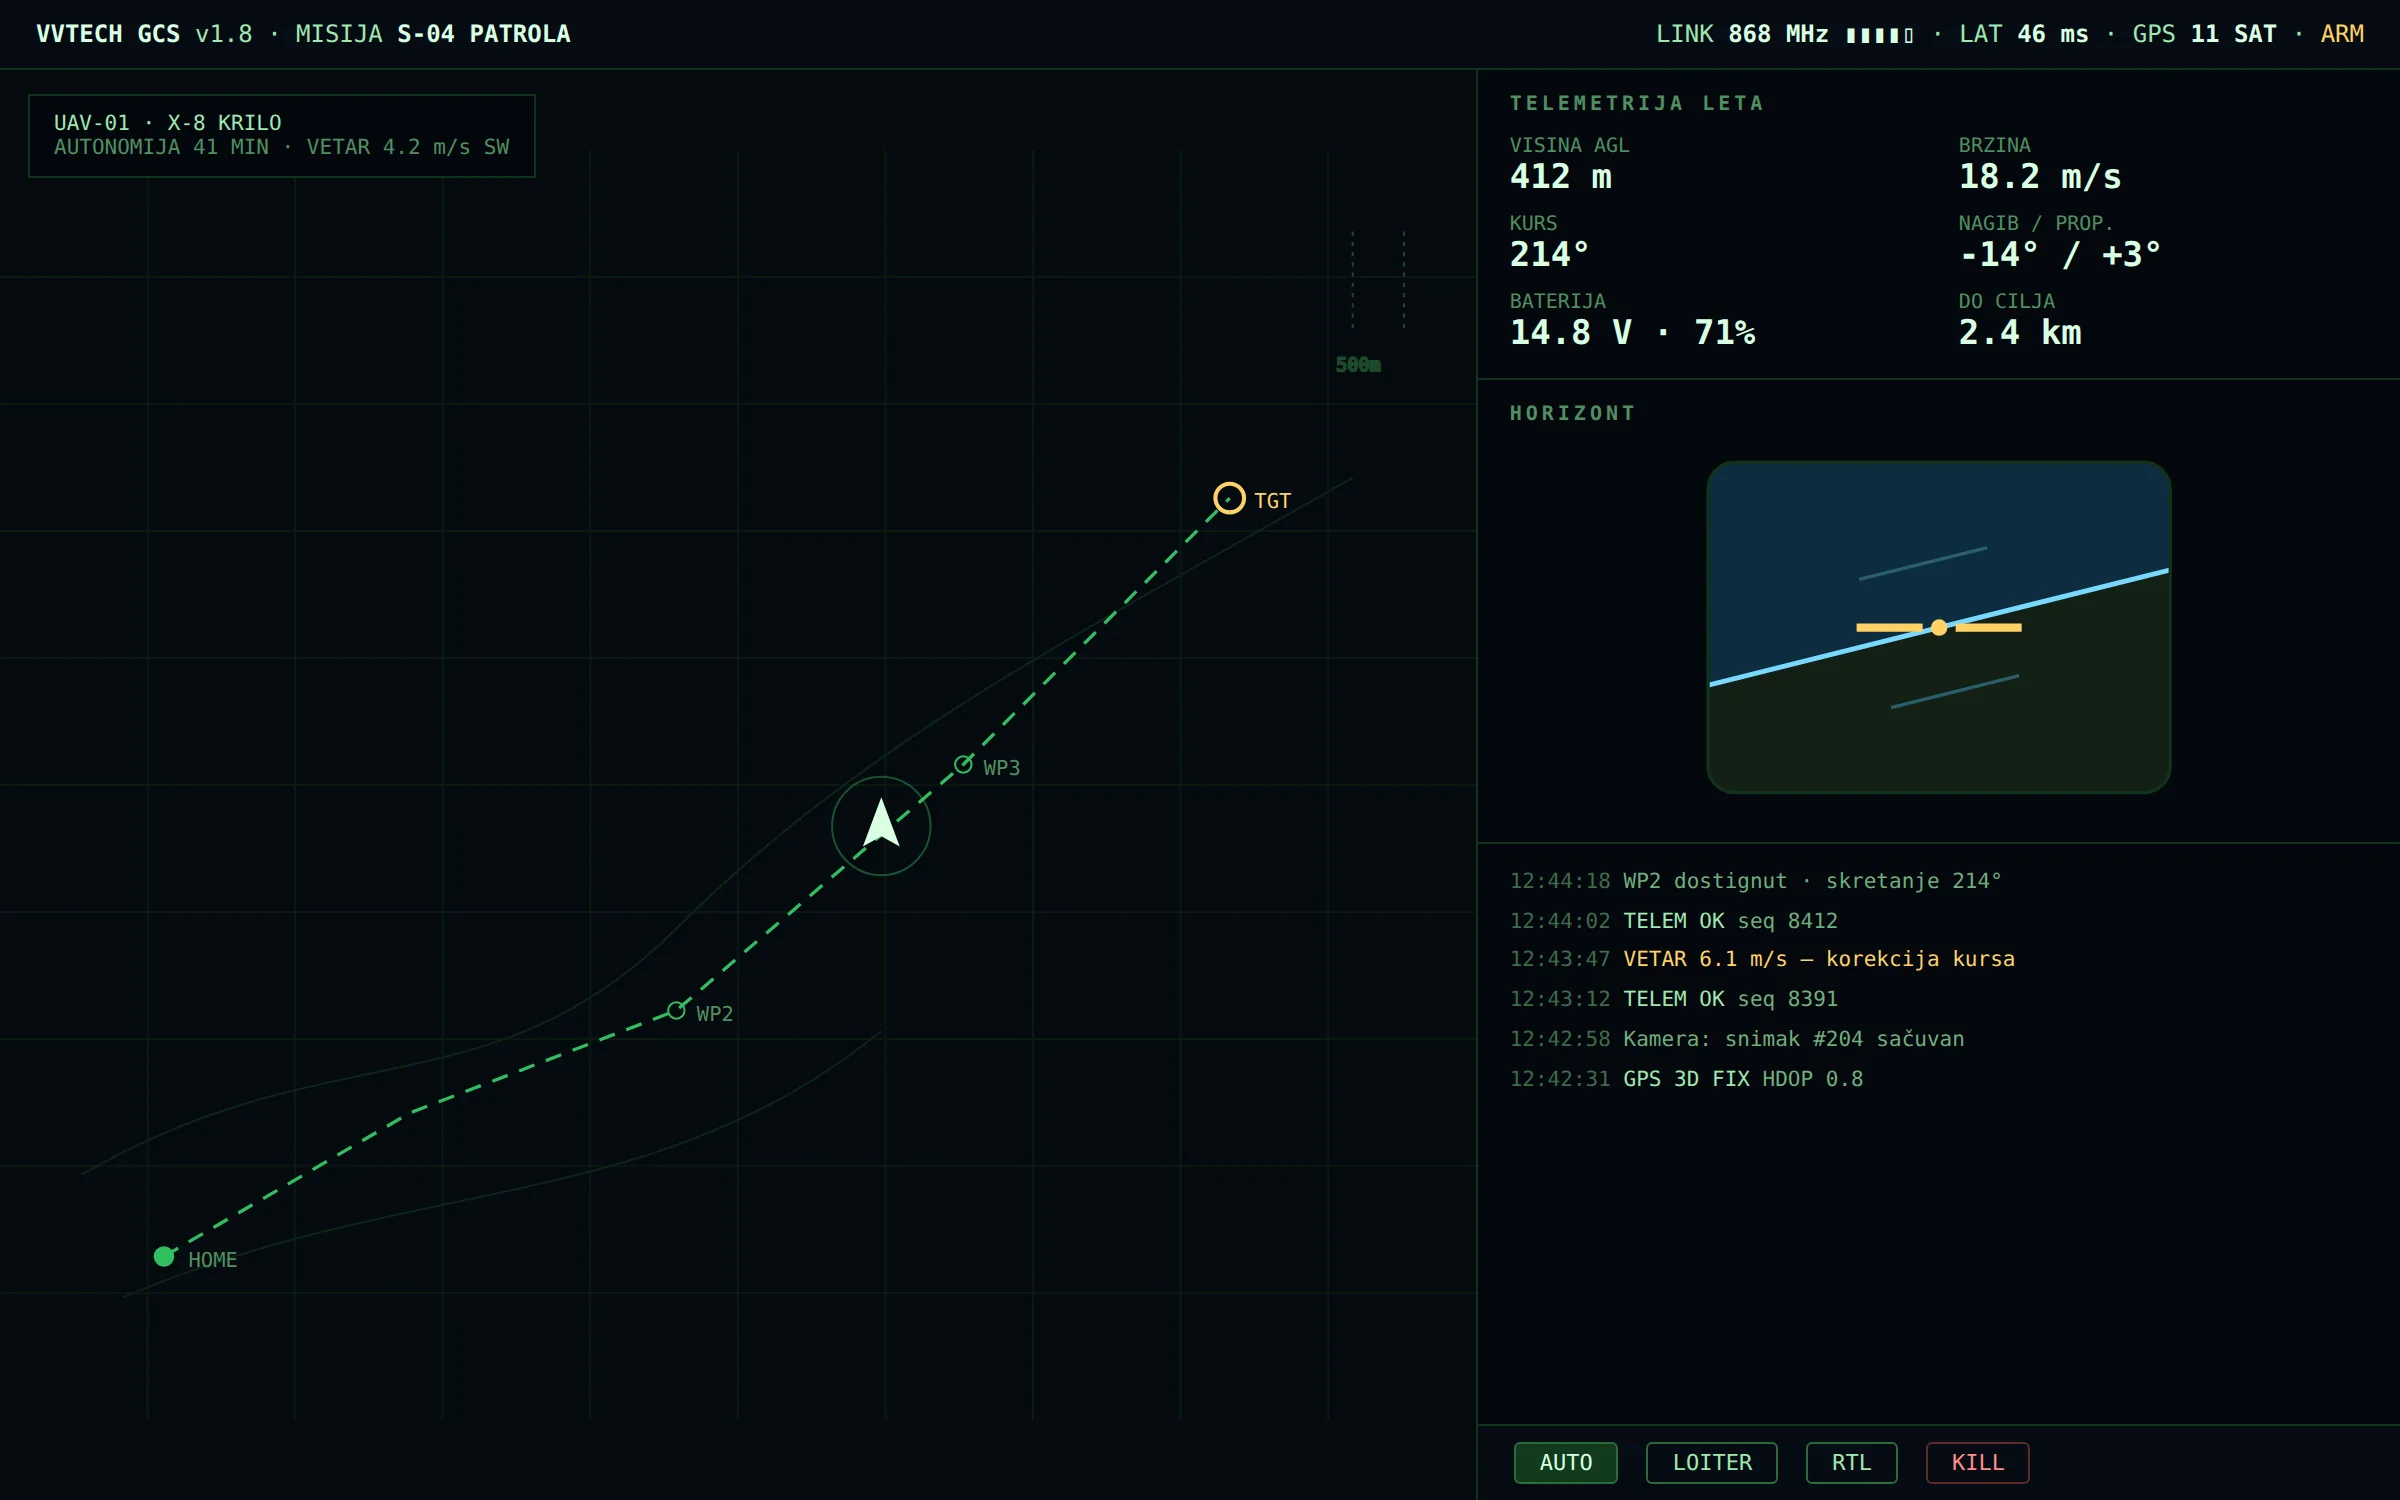
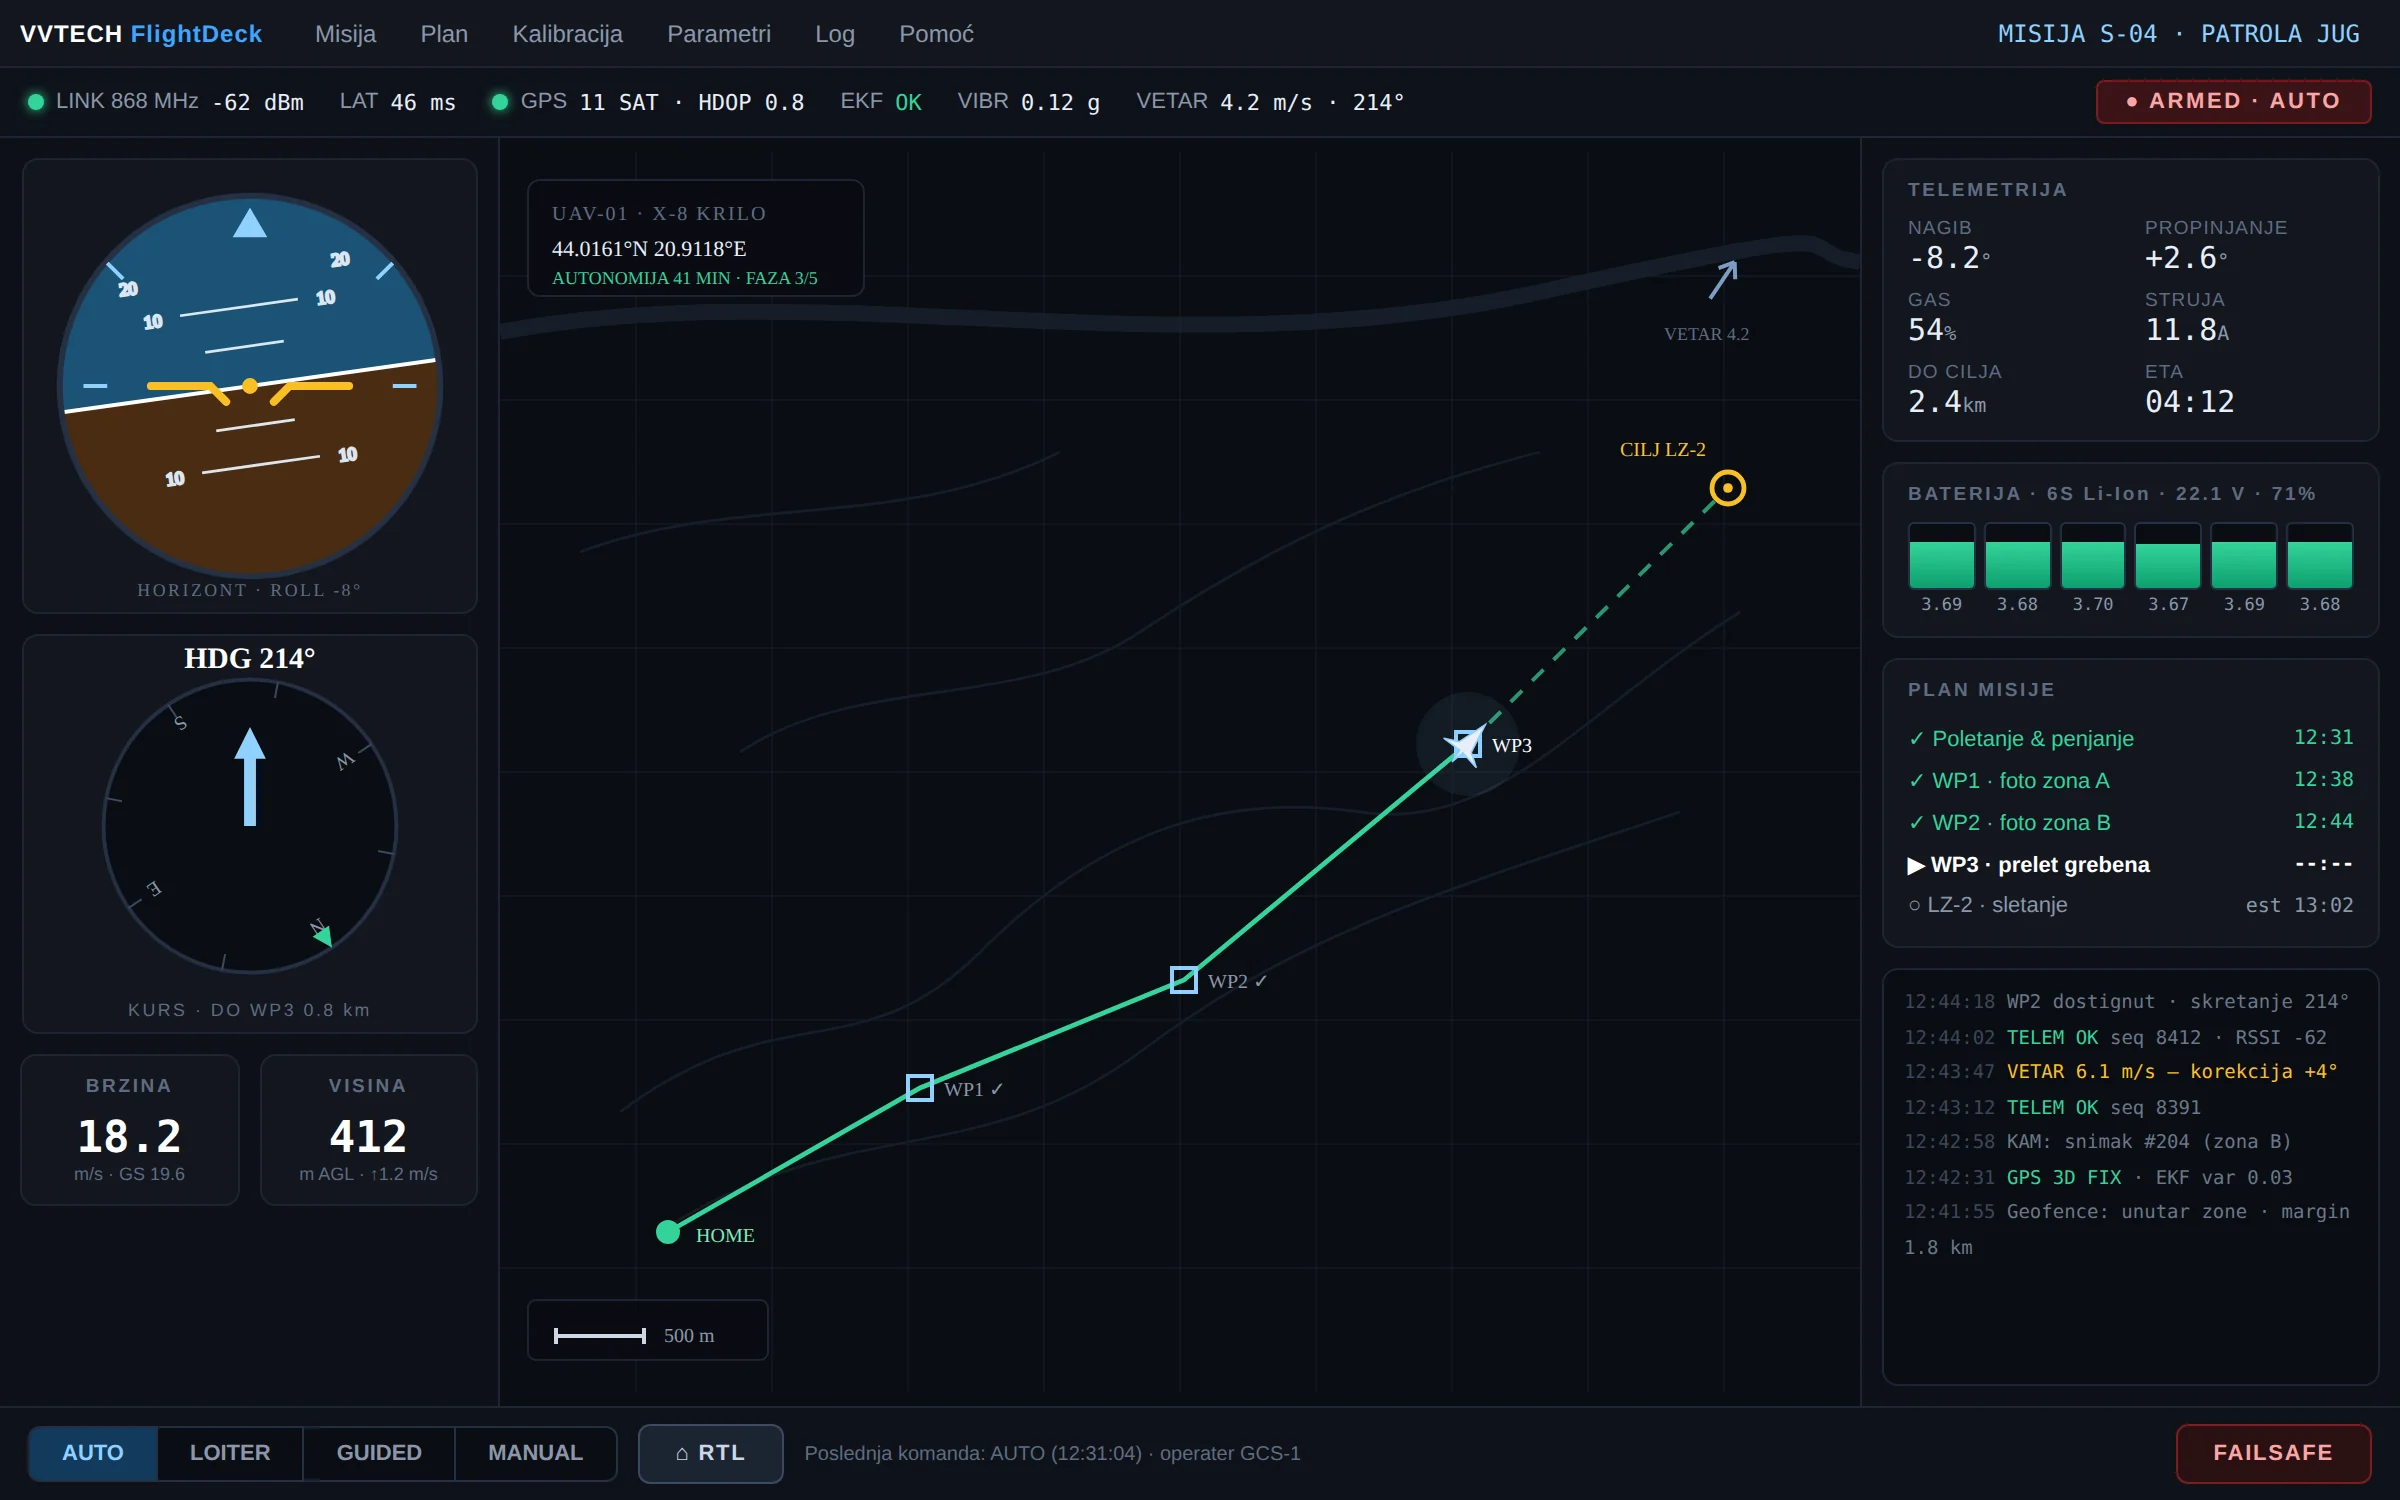
Profesionalni GNC FlightDeck + PGT sa realnim radnim pritiskom 18-20 bar
- GNC: kompletna zemaljska stanica 'VVTECH FlightDeck' — vestacki
  horizont sa pitch lestvicama, HSI kompas, brzina/visina, baterija
  po celijama (6S), plan misije sa checkmarkovima, konzolni log,
  AUTO/LOITER/GUIDED/MANUAL rezimi, ARMED status, mapa sa izohipsama,
  vetrom i geofence porukama
- PGT ekrani ponovo slikani: pun kadar kartica (bez presecenog
  skrola), pritisak gasa prikazan realno 19.4 / 18.7 bar (radni
  pritisak 18-20 bar) umesto nerealnih dummy vrednosti
- Kes-bust slika v=3

Claude-Session: https://claude.ai/code/session_01B3fvisijghmcPmp58SkH7r

diff --git a/en/projects/index.html b/en/projects/index.html
@@ -92,7 +92,7 @@
           <ul class="tags"><li>SCADA</li><li>OEE</li><li>Alarms</li><li>Three shifts</li></ul>
         </div>
         <figure class="case-media">
-          <img src="../../assets/projects/linija.webp?v=2" alt="Surface-treatment line automation — ekran aplikacije" loading="lazy">
+          <img src="../../assets/projects/linija.webp?v=3" alt="Surface-treatment line automation — ekran aplikacije" loading="lazy">
         </figure>
       </div>
       <div class="grid grid-2">
@@ -132,7 +132,7 @@
           <ul class="tags"><li>Raspberry Pi</li><li>GSM/SMS</li><li>Solar</li><li>OTA</li><li>GPS</li></ul>
         </div>
         <figure class="case-media">
-          <img src="../../assets/projects/nadzor.webp?v=2" alt="PGT-A80 — remote monitoring of anti-hail cannons — ekran aplikacije" loading="lazy">
+          <img src="../../assets/projects/nadzor.webp?v=3" alt="PGT-A80 — remote monitoring of anti-hail cannons — ekran aplikacije" loading="lazy">
         </figure>
       </div>
       <div class="grid grid-2">
@@ -166,7 +166,7 @@
           <ul class="tags"><li>Ground station</li><li>Telemetry</li><li>Flight analysis</li></ul>
         </div>
         <figure class="case-media">
-          <img src="../../assets/projects/gnc.webp?v=2" alt="Ground station and flight telemetry — ekran aplikacije" loading="lazy">
+          <img src="../../assets/projects/gnc.webp?v=3" alt="Ground station and flight telemetry — ekran aplikacije" loading="lazy">
         </figure>
       </div>
       <div class="grid grid-2">
@@ -200,7 +200,7 @@
           <ul class="tags"><li>XZ platform</li><li>LVGL HMI</li><li>Raster programs</li><li>E-stop</li></ul>
         </div>
         <figure class="case-media">
-          <img src="../../assets/projects/hmi.webp?v=2" alt="Sandblaster SB-2000 — XZ blasting platform — ekran aplikacije" loading="lazy">
+          <img src="../../assets/projects/hmi.webp?v=3" alt="Sandblaster SB-2000 — XZ blasting platform — ekran aplikacije" loading="lazy">
         </figure>
       </div>
       <div class="grid grid-2">
@@ -233,7 +233,7 @@
           <ul class="tags"><li>Work orders</li><li>Warehouse</li><li>Deadlines</li></ul>
         </div>
         <figure class="case-media">
-          <img src="../../assets/projects/erp.webp?v=2" alt="ERP for manufacturing and work orders — ekran aplikacije" loading="lazy">
+          <img src="../../assets/projects/erp.webp?v=3" alt="ERP for manufacturing and work orders — ekran aplikacije" loading="lazy">
         </figure>
       </div>
       <div class="grid grid-2">
@@ -269,7 +269,7 @@
           <ul class="tags"><li>Node.js</li><li>WebSocket</li><li>Roles</li><li>Alarms</li></ul>
         </div>
         <figure class="case-media">
-          <img src="../../assets/projects/flota.webp?v=2" alt="Cloud platform for fleet monitoring — ekran aplikacije" loading="lazy">
+          <img src="../../assets/projects/flota.webp?v=3" alt="Cloud platform for fleet monitoring — ekran aplikacije" loading="lazy">
         </figure>
       </div>
       <div class="case reveal">
@@ -279,7 +279,7 @@
           <ul class="tags"><li>Android</li><li>Push (FCM)</li><li>Remote commands</li></ul>
         </div>
         <figure class="case-media phone">
-          <img src="../../assets/projects/app.webp?v=2" alt="Android app for on-duty operators — ekran aplikacije" loading="lazy">
+          <img src="../../assets/projects/app.webp?v=3" alt="Android app for on-duty operators — ekran aplikacije" loading="lazy">
         </figure>
       </div>
     </div>
@@ -309,7 +309,7 @@
           <ul class="tags"><li>Prediction</li><li>Telemetry</li><li>Remaining resource</li></ul>
         </div>
         <figure class="case-media">
-          <img src="../../assets/projects/ai.webp?v=2" alt="Gas-consumption prediction from telemetry — ekran aplikacije" loading="lazy">
+          <img src="../../assets/projects/ai.webp?v=3" alt="Gas-consumption prediction from telemetry — ekran aplikacije" loading="lazy">
         </figure>
       </div>
       <div class="grid grid-2">

diff --git a/projekti/index.html b/projekti/index.html
@@ -92,7 +92,7 @@
           <ul class="tags"><li>SCADA</li><li>OEE</li><li>Alarmi</li><li>Tri smene</li></ul>
         </div>
         <figure class="case-media">
-          <img src="../assets/projects/linija.webp?v=2" alt="Automatizacija linije za tretman površina — ekran aplikacije" loading="lazy">
+          <img src="../assets/projects/linija.webp?v=3" alt="Automatizacija linije za tretman površina — ekran aplikacije" loading="lazy">
         </figure>
       </div>
       <div class="grid grid-2">
@@ -132,7 +132,7 @@
           <ul class="tags"><li>Raspberry Pi</li><li>GSM/SMS</li><li>Solarno</li><li>OTA</li><li>GPS</li></ul>
         </div>
         <figure class="case-media">
-          <img src="../assets/projects/nadzor.webp?v=2" alt="PGT-A80 — daljinski nadzor protivgradnih topova — ekran aplikacije" loading="lazy">
+          <img src="../assets/projects/nadzor.webp?v=3" alt="PGT-A80 — daljinski nadzor protivgradnih topova — ekran aplikacije" loading="lazy">
         </figure>
       </div>
       <div class="grid grid-2">
@@ -166,7 +166,7 @@
           <ul class="tags"><li>Zemaljska stanica</li><li>Telemetrija</li><li>Analiza leta</li></ul>
         </div>
         <figure class="case-media">
-          <img src="../assets/projects/gnc.webp?v=2" alt="Zemaljska stanica i telemetrija leta — ekran aplikacije" loading="lazy">
+          <img src="../assets/projects/gnc.webp?v=3" alt="Zemaljska stanica i telemetrija leta — ekran aplikacije" loading="lazy">
         </figure>
       </div>
       <div class="grid grid-2">
@@ -200,7 +200,7 @@
           <ul class="tags"><li>XZ platforma</li><li>LVGL HMI</li><li>Raster programi</li><li>E-stop</li></ul>
         </div>
         <figure class="case-media">
-          <img src="../assets/projects/hmi.webp?v=2" alt="Sandblaster SB-2000 — XZ platforma za peskarenje — ekran aplikacije" loading="lazy">
+          <img src="../assets/projects/hmi.webp?v=3" alt="Sandblaster SB-2000 — XZ platforma za peskarenje — ekran aplikacije" loading="lazy">
         </figure>
       </div>
       <div class="grid grid-2">
@@ -233,7 +233,7 @@
           <ul class="tags"><li>Radni nalozi</li><li>Magacin</li><li>Rokovi</li></ul>
         </div>
         <figure class="case-media">
-          <img src="../assets/projects/erp.webp?v=2" alt="ERP za proizvodnju i radne naloge — ekran aplikacije" loading="lazy">
+          <img src="../assets/projects/erp.webp?v=3" alt="ERP za proizvodnju i radne naloge — ekran aplikacije" loading="lazy">
         </figure>
       </div>
       <div class="grid grid-2">
@@ -269,7 +269,7 @@
           <ul class="tags"><li>Node.js</li><li>WebSocket</li><li>Uloge</li><li>Alarmi</li></ul>
         </div>
         <figure class="case-media">
-          <img src="../assets/projects/flota.webp?v=2" alt="Cloud platforma za nadzor flote — ekran aplikacije" loading="lazy">
+          <img src="../assets/projects/flota.webp?v=3" alt="Cloud platforma za nadzor flote — ekran aplikacije" loading="lazy">
         </figure>
       </div>
       <div class="case reveal">
@@ -279,7 +279,7 @@
           <ul class="tags"><li>Android</li><li>Push (FCM)</li><li>Komande na daljinu</li></ul>
         </div>
         <figure class="case-media phone">
-          <img src="../assets/projects/app.webp?v=2" alt="Android aplikacija za dežurne operatere — ekran aplikacije" loading="lazy">
+          <img src="../assets/projects/app.webp?v=3" alt="Android aplikacija za dežurne operatere — ekran aplikacije" loading="lazy">
         </figure>
       </div>
     </div>
@@ -309,7 +309,7 @@
           <ul class="tags"><li>Predikcija</li><li>Telemetrija</li><li>Preostali resurs</li></ul>
         </div>
         <figure class="case-media">
-          <img src="../assets/projects/ai.webp?v=2" alt="Predikcija potrošnje gasa iz telemetrije — ekran aplikacije" loading="lazy">
+          <img src="../assets/projects/ai.webp?v=3" alt="Predikcija potrošnje gasa iz telemetrije — ekran aplikacije" loading="lazy">
         </figure>
       </div>
       <div class="grid grid-2">

diff --git a/en/index.html b/en/index.html
@@ -155,7 +155,7 @@
       <p class="section-sub reveal d-1">An example of a solution we developed from scratch — hardware, firmware and software.</p>
       <div class="grid grid-3">
         <article class="card project reveal">
-          <img class="project-shot" src="../assets/projects/nadzor.webp?v=2" alt="PGT-A80 — remote monitoring of anti-hail cannons — ekran aplikacije" loading="lazy">
+          <img class="project-shot" src="../assets/projects/nadzor.webp?v=3" alt="PGT-A80 — remote monitoring of anti-hail cannons — ekran aplikacije" loading="lazy">
           <h3>PGT-A80 — remote monitoring of anti-hail cannons</h3>
           <p>Devices scattered across hills with no mains power or internet — yet the on-duty operator sees gas pressure, battery voltage, GPS position and status of every device at any moment. Solar power, GSM/SMS telemetry, a cloud server, a mobile app with push notifications and OTA updates without a single field trip.</p>
           <ul class="tags"><li>Raspberry Pi</li><li>GSM/SMS</li><li>Solar</li><li>OTA</li></ul>

diff --git a/index.html b/index.html
@@ -176,7 +176,7 @@
       <p class="section-sub reveal d-1">Primer rešenja koje smo razvili od nule — hardver, firmver i softver.</p>
       <div class="grid grid-3">
         <article class="card project reveal">
-          <img class="project-shot" src="assets/projects/nadzor.webp?v=2" alt="PGT-A80 — daljinski nadzor protivgradnih topova — ekran aplikacije" loading="lazy">
+          <img class="project-shot" src="assets/projects/nadzor.webp?v=3" alt="PGT-A80 — daljinski nadzor protivgradnih topova — ekran aplikacije" loading="lazy">
           <h3>PGT-A80 — daljinski nadzor protivgradnih topova</h3>
           <p>Uređaji rasuti po brdima, bez struje i interneta — a dežurni operater u svakom trenutku vidi pritisak gasa, napon akumulatora, GPS poziciju i status svakog uređaja. Solarno napajanje, GSM/SMS telemetrija, cloud server, mobilna aplikacija sa push notifikacijama i OTA ažuriranje bez izlaska na teren.</p>
           <ul class="tags"><li>Raspberry Pi</li><li>GSM/SMS</li><li>Solarno</li><li>OTA</li></ul>
